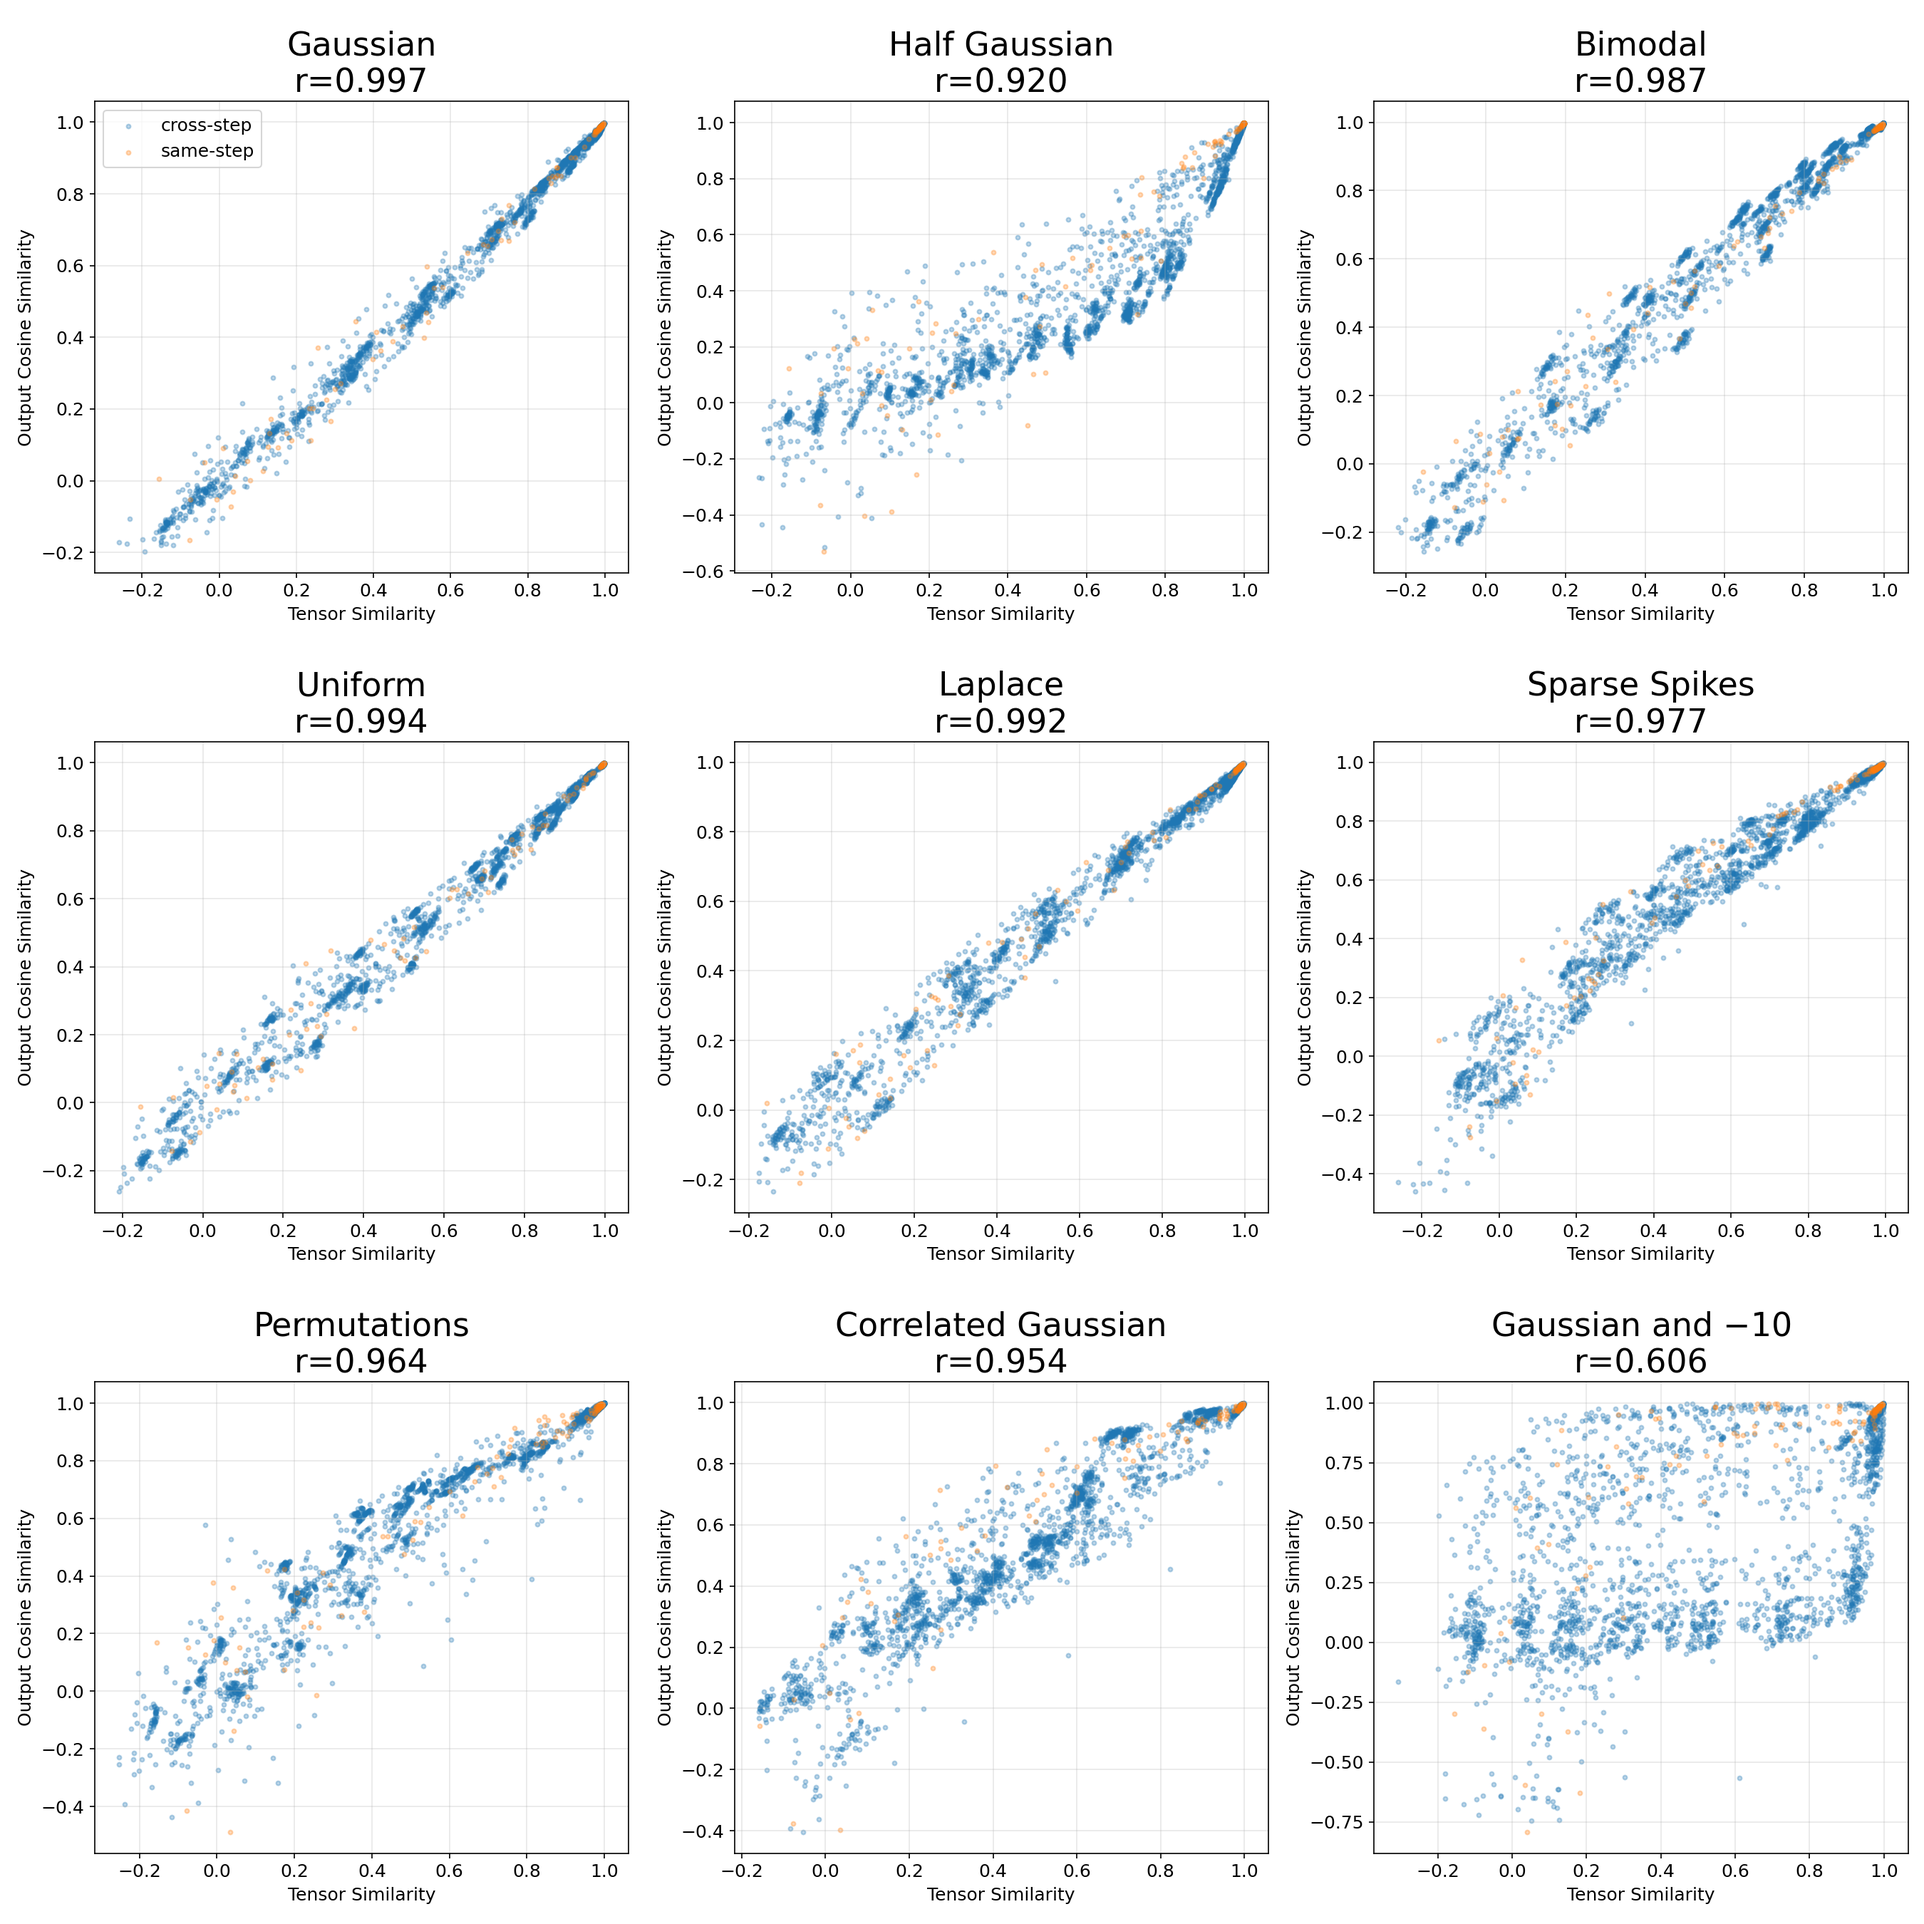
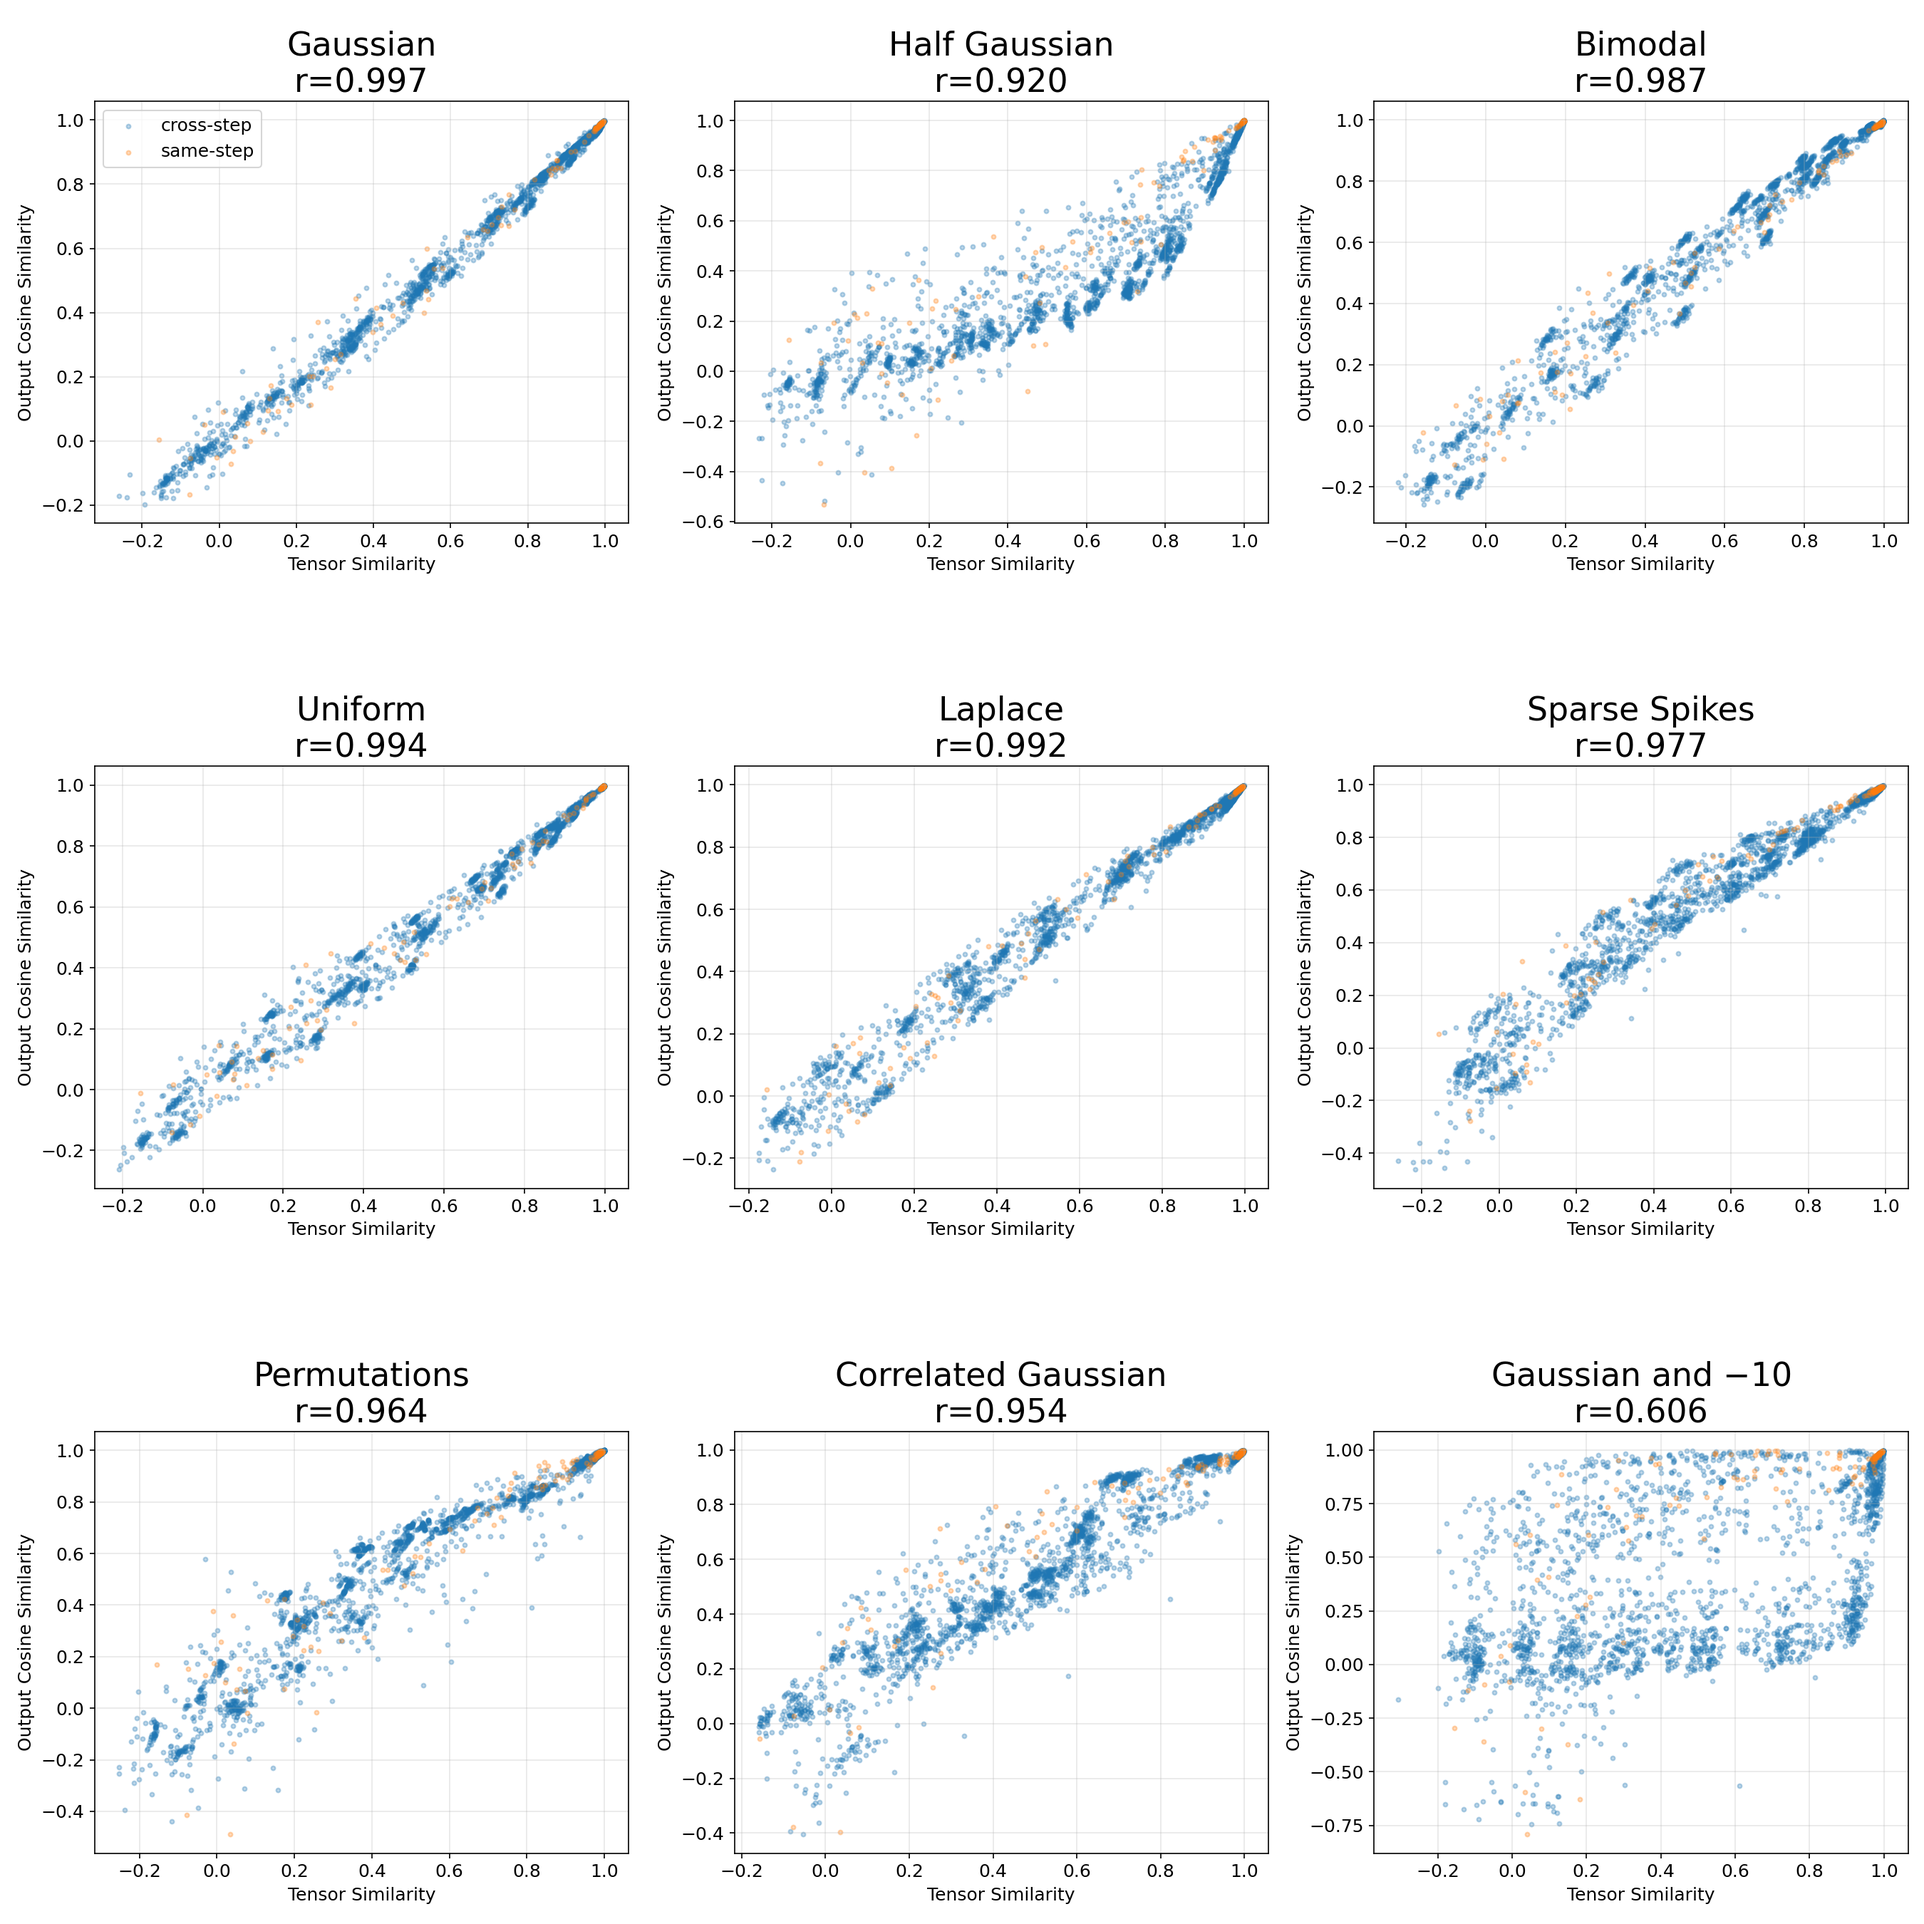
Increase subplot vertical padding (h_pad 3->8)

diff --git a/workspaces/jacob/tensor_similarity_distribution_robustness/plot.py b/workspaces/jacob/tensor_similarity_distribution_robustness/plot.py
@@ -77,7 +77,7 @@ for idx in range(n_dists, len(axes)):
     axes[idx].set_visible(False)
 
 plt.suptitle('', fontsize=14)
-plt.tight_layout(h_pad=3)
+plt.tight_layout(h_pad=8)
 plt.savefig(os.path.join(RESULTS_DIR, 'scatter_grid.png'), dpi=150)
 plt.close()
 print("Saved scatter_grid.png")
